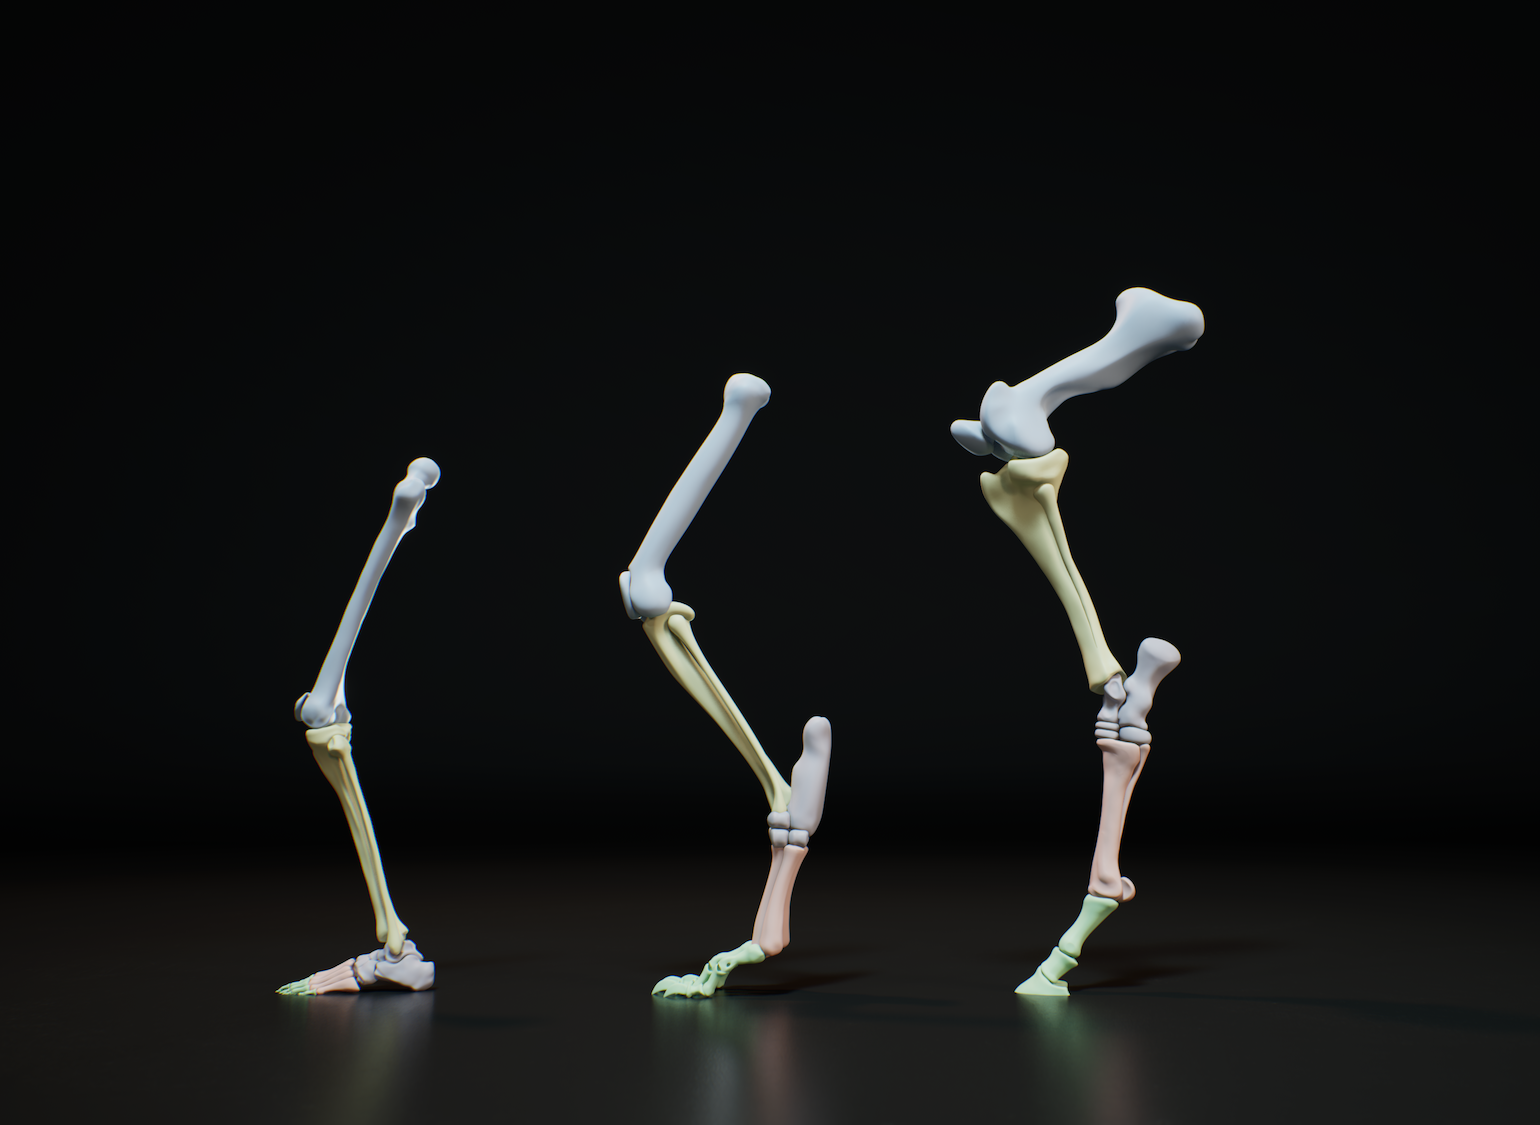
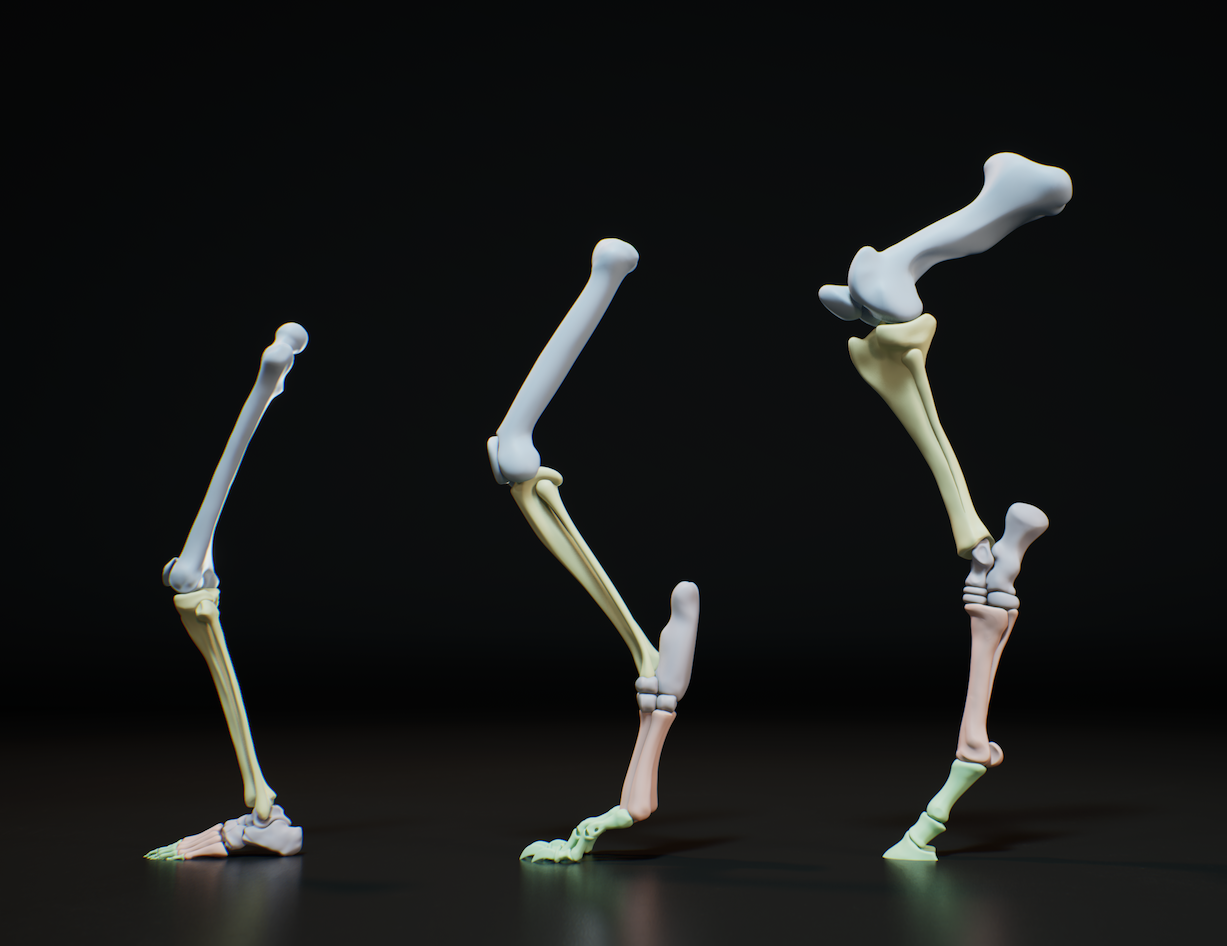
hyundai latest updates

Changed region(s): [[0.6194, 0.1533, 0.8981, 1.0], [0.3716, 0.2452, 0.5884, 1.0], [0.1239, 0.3372, 0.3097, 1.0]]

diff --git a/hyundai.html b/hyundai.html
@@ -35,8 +35,9 @@
 	<div class="hyundai" id="fullpage">
 
 		<section id="section1" class="section full" >
-			<div class="bg" style="background-image:url(assets/hyundai/terrain1.jpg);" ></div>
-			<div class="grid">
+			<div class="bg" style="z-index:-1;position:absolute;background-image:url(assets/hyundai/terrain1.jpg);" ></div>
+			
+			<div class="grid"><h1 style="color:black;grid-column-start: 1; align-self: center;grid-column-end: span 12;">How can we combine a car and a robot?</h1>
 				<div class="text-block padding bottom-left slide-up"><!-- <h1>How can we combine a car and a robot?</h1> -->There are limits to where even the toughest off-road vehicles can go.<br><br>
 				Places with steep or uneven terrain where no conventional car could reach. 
 				</div>
@@ -48,10 +49,11 @@
 				<div class="bg opacity" style="background-image:url(assets/hyundai/post_it.jpg);" ></div>
 			
 				<div class="grid">
-					<img class="fade-in i4 slowestest " src="assets/hyundai/amb_walk.jpg">
+					
 					<img class="fade-in i1 slow " src="assets/hyundai/rocks.jpg">
 					<img class="fade-in i2 slower " src="assets/hyundai/snow.jpg">
 					<img class="fade-in i3 slowest " src="assets/hyundai/nyc.jpg">
+					<img class="fade-in i4 slowestest " src="assets/hyundai/amb_walk.jpg">
 					<div class="text-block padding bottom-left slide-up">
 						How do you make a vehicle that can move through places that are only accessible by foot?
 					</div>
@@ -59,7 +61,7 @@
 		</section>
 		<section id="section3" class="section full fp-auto-height-responsive" >
 				<!-- <img class="long1" src="assets/hyundai/snow.jpg"> -->
-			<video style="position: absolute;z-index: 0;" class="fade-in" aria-describedby="video depicts clips of designers at hyundai using software to prototype this vehicle" class="" data-autoplay muted>
+			<video style="position: absolute;z-index: 0;" class="fade-in" aria-describedby="video depicts clips of designers at hyundai using software to prototype this vehicle" class="" data-autoplay muted loop>
 				<source src="assets/hyundai/prototype0.mp4" type="video/mp4">
 			</video>
 			<div class="grid">
@@ -78,6 +80,7 @@
 	        		 As humans we take walking for granted.<br>
 				     From an engineering perspective, it’s a delicate coordination of joints, muscles, and reflexes that’s difficult to replicate mechanically.
 				     <img  class="diagram"  src='assets/hyundai/animal.png'>
+				 	 <div class="diagram-captions caption"><span>human</span><span>dog</span><span>horse</span></div>
 				 	</div>
 				 	
 				 	<div class="interactive-block">
@@ -108,13 +111,14 @@
 
 		<section id="section6" class="section" >
 			<div class="grid">
-				<video style="grid-column-start: 1;align-self:center;grid-column-end: span 11;" class="fade-in top" aria-describedby="video depicts elevate prototype transforming from erect mammalian walking mode to lower reptilian crawling mode" class="" data-autoplay muted loop>
+				<video style="grid-column-start: 1;align-self:end;grid-column-end: span 11;" class="fade-in top" aria-describedby="video depicts elevate prototype transforming from erect mammalian walking mode to lower reptilian crawling mode" class="" data-autoplay muted loop>
 				<source src="assets/hyundai/walk_cycle.mp4" type="video/mp4">
 			    </video>
-			    <span class="reptilian-span">Reptilian</span><span class="mammalian-span">Mammalian</span>
-			    <div class="text-block bottom-left slide-up">
+			    <span class="reptilian-span">Mammalian</span><span class="mammalian-span">Reptilian</span>
+			    <div style="grid-column-end: span 5;align-self: start;" class="text-block bottom-left slide-up">
 				Walking in mammalian mode provides additional height for clearing obstacles and a greater range of vertical leg motion, useful for climbing. 
-					<br><br>
+				</div>
+				 <div style="padding-left:1.04vw;grid-column-end: span 5;align-self: start;" class="text-block bottom-right slide-up">
 				By contrast, the wide gait of the reptilian walking mode provides increased stability and a lower center of gravity, ideal for uneven terrain.
 				</div>
 			</div>
@@ -138,7 +142,8 @@
 				    Without muscles, the movements of each leg depend on heavy, high-torque electric motors in each joint. 
 					Striking the right balance requires subtracting mass from the supports. Just like bones, these supports must be both strong and light. 
 				</div>
-				<img id='leg-callout' src="assets/hyundai/robotic_leg.jpg"/><span style="grid-column-start: 9;grid-column-end: span 2;align-self: start;" class="caption">robotic leg</span>
+				<span style="z-index:2;grid-column-start: 7;grid-column-end: span 5;align-self: start;" class="caption">Robot Leg Wheel Unit</span>
+				<img id='leg-callout' src="assets/hyundai/robotic_leg.jpg"/>
 			</div>
 	
 
@@ -151,10 +156,19 @@
 					 <input type="range" min="1" max="100" value="50" class="slider" id="lattice-slider" oninput="lattice2(this.value)">
 					 <span class="caption">Slide to rotate model</span>
 				</div>
-				<div class="text-block top-right slide-up">To reduce the weight of the leg while maximizing its strength, designers used AI-powered generative design tools to create, test, and evolve hundreds of potential designs in minutes. 
-				<br><br>In this case, the software generated these curved lattices of material following a mathematical algorithm called a Michell Truss.
-			<img class="diagram right" src="assets/hyundai/truss.jpg"><span class="caption">Michell Truss</span></div>
 				
+			<div style="grid-column-end: span 6;"><img style="width: 88%;display: block;margin: 0 auto;"  src="assets/hyundai/truss.jpg"><br><span style="position: relative; top:-3vw;" class="caption">Michell Truss</span></div>
+				
+				<div style="grid-column-end: span 6;align-self: start;" class="text-block bottom-left slide-up">
+				To reduce the weight of the leg while maximizing its strength, designers used AI-powered generative design tools to create, test, and evolve hundreds of potential designs in minutes.
+				</div>
+				 <div style="padding-left:1.04vw;grid-column-end: span 5;align-self: start;" class="text-block bottom-right slide-up">
+				In this case, the software generated these curved lattices of material following a mathematical algorithm called a Michell Truss.
+				</div>
+
+
+
+
 			</div>
 		
 		</section>
@@ -178,7 +192,7 @@
 					 <input type="range" min="1" max="100" value="3" class="slider" id="lattice-slider2" oninput="lattice3(this.value)">
 					 <span class="caption">Slide to expand model</span>
 				</div>
-				<div class="text-block top-right slide-up">
+				<div style="top: -2.5vw;" class="text-block top-right slide-up">
 					After a series of revisions, the team arrives at the design you see here. <br><br>The structure uses a minimum of material, organized to provide support where it’s needed most. <br><br>In many places, magnesium casting is used for the final pieces, offering the best balance of strength and weight.
 				</div>
 			</div>

diff --git a/system.css b/system.css
@@ -67,6 +67,11 @@
 	grid-column-end: span 6;
 	align-self:end;
 }
+.bottom-right{
+	grid-column-start: 7;
+	grid-column-end: span 6;
+	align-self:end;
+}
 .top-left{
 	grid-column-start: 1;
 	grid-column-end: span 6;
@@ -122,7 +127,7 @@
 	width: 100%;
 	height: 100vh;
 	background-position:center center;
-	backgrouund-size:cover;
+	background-size:cover;
 }
 #loader{
 	position: fixed;
@@ -332,11 +337,10 @@ a:link, a:active, a:focus, a:hover{
 }
 .reptilian-span, .mammalian-span{
 	grid-column-end: span 1;
-	align-self: start;
+	align-self: emd;
 	position: relative;
-	top:-10vw;
 	text-align: center;
-	color:rgb(102,102,102);
+	color:rgb(170,170,170);
 }
 .reptilian-span{
 	grid-column-start: 3;
@@ -378,7 +382,7 @@ input[type="range"]{
   -webkit-appearance: none;
   width: 100%;
   height: 0.2vw;
-  background: rgb(102,102,102);
+  background: rgb(170,170,170);
   outline: none !important;
   appearance:none;
   margin: 2vw 0 1vw;
@@ -429,7 +433,7 @@ input[type="range"]::-moz-range-progress {
   border:none;
 }
 input[type="range"]::-moz-range-track {  
-  background-color: rgb(102,102,102);
+  background-color: rgb(170,170,170);
   border-radius:0;
   border:none;
   height: 100%;
@@ -571,7 +575,7 @@ nav > a{
 }
 video.top{
 	position: relative;
-	top:-11vh;
+/*	top:-11vh;*/
 
 }
 video.full{
@@ -627,7 +631,7 @@ video.small, img.small{
 	top:-50px;
 }
 .caption{
-	color:rgb(102,102,102);
+	color:rgb(170,170,170);
 	display: block;
 	text-align:center;
 	font-size:1.2vw;
@@ -638,6 +642,7 @@ video.small, img.small{
 	border-radius:0px;
 	cursor: pointer;
 }
+
 .nav-title{
 	z-index: 2;
 	color:#FFF;
@@ -697,7 +702,7 @@ video.small, img.small{
 }
 
 .go-arrow{
-	background: rgb(102,102,102);
+	background: rgb(170,170,170);
 	display: inline-block;
 	padding:0.6vw 1.04vw;
 	width: calc(3.125vw - 2.08vw);
@@ -716,6 +721,12 @@ video.small, img.small{
 	grid-column-start: 7;
 	grid-column-end: span 6;
 	align-self: center;
+}
+.interactive-block .caption{
+	color:white;
+}
+.pose span{
+	color: rgb(170,170,170);
 }
 .interactive-block.left{
 	grid-column-start: 1;
@@ -801,11 +812,11 @@ align-self: top;
 	display: block;
 	margin-top:1vw;
 }
-.hyundai #section6 .slide-up{
+/*.hyundai #section6 .slide-up{
 	width: 40%;
 	bottom:11vh;
-	position: absolute;
-}
+	position: relative;
+}*/
 #section6 .flex-block{
 	position: relative;
 	width: calc(100%);
@@ -1035,17 +1046,22 @@ section.active .slide-up.slower{
 	padding-right: 5vw;
 }
 #lattice-slider2{
-	z-index: 2;
+	/*z-index: 2;
 	position: absolute;
 	width: 45vh;
 	right:0;
 	top:0;
 	transform-origin: right;
-    transform: translateY(-5vh) rotate(-90deg);
+    transform: translateY(-5vh) rotate(-90deg);*/
+}
+.diagram-captions{
+	width: 70%;
+	display: flex;
+	justify-content: space-around;
 }
 #lattice3{
-	margin-right: 50px;
-    width: calc(100% - 50px);
+/*	margin-right: 50px;
+    width: calc(100% - 50px);*/
 }
 
 
